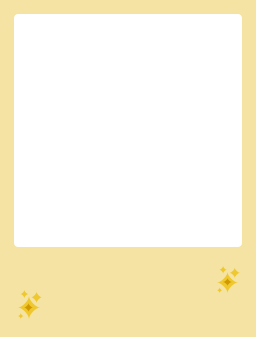
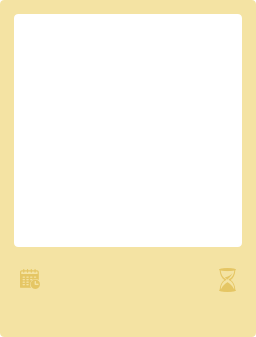
Added new designs to iRights and fRights NFT images Added 3 lines of dynamic printing to the image Updated the metadata to reflect ingress abilities.

Changed region(s): [[0.0625, 0.8012, 0.1562, 0.9496], [0.8438, 0.7715, 0.9375, 0.8902]]

diff --git a/main.py b/main.py
@@ -44,12 +44,44 @@ def _compose_image(nft_image_src, bg_path, frame_path, token_address, token_id, 
     #Bg image
     bg_composite = Image.open(bg_path)
     #Draw text
-    expiry_datetime = datetime.utcfromtimestamp(expiry)
-    expiry_readable = expiry_datetime.strftime("%d %b %y, %H:%M UTC")
 
+    dynamic_text_line_1 = ""
+    dynamic_text_line_2 = ""
+
+    #First Line - x-55 & y-279
     draw = ImageDraw.Draw(bg_composite)
     font = ImageFont.load_default()
-    draw.text((53, 300),expiry_readable,(0,0,0),font=font)
+
+    if token_type is 'f':
+        dynamic_text_line_1 = "Hodl while cool things happen."
+        dynamic_text_line_2 = "Unfreeze on"
+        draw.text((45, 279),dynamic_text_line_1,(0,0,0),font=font)
+            #Second Line - x-87 & y-292
+
+
+    elif token_type is 'i':
+        if max_i_supply == 1:
+            dynamic_text_line_1 = "Buidl with someone you love."
+            dynamic_text_line_2 = "You have until"
+            draw.text((50, 279),dynamic_text_line_1,(0,0,0),font=font)
+        else:
+            dynamic_text_line_1 = "Buidl something you love."
+            dynamic_text_line_2 = "You have until"
+            draw.text((60, 279),dynamic_text_line_1,(0,0,0),font=font)
+
+    draw.text((95, 292),dynamic_text_line_2,(0,0,0),font=font)
+
+
+    #Date & Time - x-53 & y-304
+    expiry_datetime = datetime.utcfromtimestamp(expiry)
+    expiry_readable = expiry_datetime.strftime("%d %b %y, %H:%M UTC")
+    draw = ImageDraw.Draw(bg_composite)
+    font = ImageFont.load_default()
+    draw.text((70, 304),expiry_readable,(0,0,0),font=font)
+
+
+
+
     #NFT image
     NFTImage = Image.open(requests.get(nft_image_src, stream=True).raw).convert("RGBA").resize((196,196))
     bg_composite.paste(NFTImage, (30, 30), NFTImage)
@@ -77,9 +109,9 @@ def nft(token_address, token_id, token_type, expiry, exclusivity, max_i_supply, 
 
     parent_nft_dapp_name = "Cryptovoxels"
     asset_name = "Parcel"
-    attributes = [{"trait_type": "Related App","value": "Cryptovoxels"},
+    attributes = [{"trait_type": "Base NFT issuer","value": "Cryptovoxels"},
        {"trait_type": "Asset Name","value": "Parcel"},
-       {"trait_type": "Maximum iToken supply","value": max_i_supply},
+       {"trait_type": "Maximum iRights supply","value": max_i_supply},
        ]
 
 
@@ -107,31 +139,40 @@ def nft(token_address, token_id, token_type, expiry, exclusivity, max_i_supply, 
     base = ""
     expired = datetime.timestamp(datetime.now()) > expiry
 
+    dynamic_text_line_1 = ""
+    dynamic_text_line_2 = ""
+
+
     description = ""
     if token_type == 'f':
         base = 'frozen'
-        name += "Unlock "
+        name += "fRights of "
         name += parent_nft_data['name']
-        description += "Rights to unfreeze the NFT of %s %s %s after %s." % (parent_nft_dapp_name,asset_name,parent_nft_data['name'],expiry_readable)
-        attributes.append({"trait_type": "Token type","value": "Unfreeze rights"})
-        attributes.append({"trait_type": "Circulating iToken supply","value": serial})
+        description += "Hodl while cool things happen. You can unfreeze the %s %s %s after %s or immediately if the circulating supply of valid iRights for the asset is 0" % (parent_nft_dapp_name,asset_name,parent_nft_data['name'],expiry_readable)
+        attributes.append({"trait_type": "Token type","value": "fRights"})
+        attributes.append({"trait_type": "Circulating iRights supply","value": serial})
         attributes.append({"trait_type": "Frozen until","value": expiry,"display_type": "date"})
+
 
     elif token_type == 'i':
         base = 'access'
-        name += "Access to "
+        name += "iRights of "
         name += parent_nft_data['name']
-        description += "Access to the %s %s %s until %s." % (parent_nft_dapp_name,asset_name,parent_nft_data['name'],expiry_readable)
         attributes.append({"trait_type": "Serial","value": serial})
         attributes.append({"trait_type": "Access until","value": expiry,"display_type": "date"})
         if not expired:
             allow_access = True
         if max_i_supply == 1:
             base = 'exclusive'
-            attributes.append({"trait_type": "Token type","value": "exclusive access rights"})
+            description += "Buidl something you love. You have exclusive interim rights to the %s %s %s until %s." % (parent_nft_dapp_name,asset_name,parent_nft_data['name'],expiry_readable)
+            attributes.append({"trait_type": "Token type","value": "iRights"})
+            attributes.append({"trait_type": "Ingress","value": "exclusive"})
+
         else:
             base = 'non-exclusive'
-            attributes.append({"trait_type": "Token type","value": "non-exclusive access rights"})
+            attributes.append({"trait_type": "Token type","value": "iRights"})
+            attributes.append({"trait_type": "Ingress","value": "non-exclusive"})
+            description += "Buidl with someone you love. You have non-exclusive interim rights to the %s %s %s until %s." % (parent_nft_dapp_name,asset_name,parent_nft_data['name'],expiry_readable)
 
     else:
         raise
